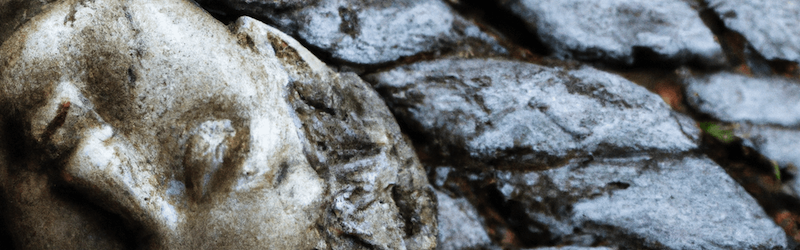
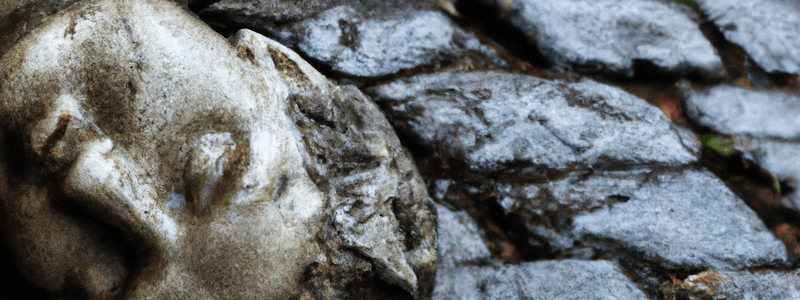
Changed featured image to be <pre> background.

diff --git a/themes/wirehaiku/layouts/index.html b/themes/wirehaiku/layouts/index.html
@@ -1,23 +1,23 @@
+{{ define "meta" }}
+    {{ $post := index (where .Site.RegularPages "Type" "posts") 0 }}
+    {{ partial "post-feat.html" $post }}
+{{ end }}
+
 {{ define "main" }}
-{{ $posts := (where .Site.RegularPages "Type" "posts") | first 10  }}
+    {{ $posts := (where .Site.RegularPages "Type" "posts") | first 10  }}
+    <article>
+        {{ .Site.Params.intro | safeHTML }}
 
-<article>
-    {{ .Site.Params.intro | safeHTML }}
-
-    {{ with index $posts 0 }}
-    <h2> Latest Post: <a href="{{ .RelPermalink }}">{{ .Title }}</a> </h2>
+        {{ with index $posts 0 }}
+        <h2> Latest Post: <a href="{{ .RelPermalink }}">{{ .Title }}</a> </h2>
     
-    {{ partial "post-meta.html" . }}
-    {{ with .Resources.GetMatch "feature.png" }}
-        <img src="{{ .RelPermalink }}" title="Featured Image">
-    {{ end }}
-    {{ .Summary }}
+        {{ partial "post-meta.html" . }}
+        {{ .Summary }}
 
-    <p> <a href="{{ .RelPermalink }}">Read more &rarr;</a> </p>
-    {{ end }}
+        <p> <a href="{{ .RelPermalink }}">Read more &rarr;</a> </p>
+        {{ end }}
 
-    <h2> Latest <a href="/posts/">Archives</a> </h2>
-    {{ partial "post-list.html" $posts }}
-</article>
-
+        <h2> Latest <a href="/posts/">Archives</a> </h2>
+        {{ partial "post-list.html" $posts }}
+    </article>
 {{ end }}

diff --git a/themes/wirehaiku/layouts/_default/single.html b/themes/wirehaiku/layouts/_default/single.html
@@ -1,4 +1,5 @@
 {{ define "meta" }}
+    {{ partial "post-feat.html" . }}
     {{ with .Resources.GetMatch "feature.png" }}
         <meta property="og:image" content="{{ .Permalink }}">
         <meta name="twitter:image" content="{{ .Permalink }}">
@@ -17,10 +18,6 @@
         </h2>
 
         {{ partial "post-meta.html" . }}
-        
-        {{ with .Resources.GetMatch "feature.png" }}
-            <img src="{{ .RelPermalink }}" title="Featured Image">
-        {{ end }}
         
         {{ .Content }}
 

diff --git a/themes/wirehaiku/layouts/partials/post-feat.html b/themes/wirehaiku/layouts/partials/post-feat.html
@@ -1,0 +1,13 @@
+{{ with .Resources.GetMatch "feature.png" }}
+    <style>
+        pre { 
+            background-image: url({{ .RelPermalink | safeCSS }});
+       }
+        code {
+            background: rgb(0, 0, 0);
+            background: linear-gradient(90deg, rgba(0, 0, 0, 0.625) 15%, rgba(0, 0, 0, 0.10) 100%);
+            color: white; 
+            text-shadow: 2px 2px 4px #000;
+        }
+    </style>        
+{{ end }}

diff --git a/themes/wirehaiku/assets/style.scss b/themes/wirehaiku/assets/style.scss
@@ -111,11 +111,15 @@ nav {
 
 main {
     pre {
-        padding: 0.5rem 1rem;
+        background-position: center;
+        background-size: cover;
+        padding: 0;
 
         code {
-            font-size: 1.125rem;
+            display: block;
+            font-size: 1.25rem;
             line-height: 2.5rem;
+            padding: 0.5rem 1rem; 
         }
     }
 }
